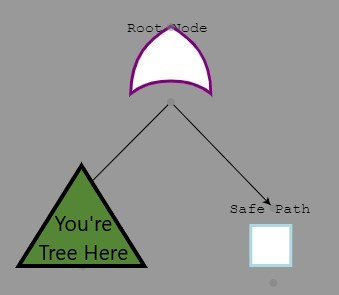
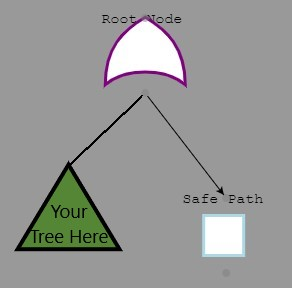
event handler and fix typo

diff --git a/frontend2/src/app/data-visualization/data-visualization.component.ts b/frontend2/src/app/data-visualization/data-visualization.component.ts
@@ -7,21 +7,22 @@ import { Component, Input, OnInit, OnChanges } from '@angular/core';
   styleUrls: ['./data-visualization.component.css']
 })
 export class DataVisualizationComponent implements OnInit, OnChanges {
-  @Input() data:any;
-  public ourData:any;
+  @Input() data: any;
+  public ourData: any;
 
   constructor() { }
 
   ngOnInit(): void {
     console.log(this.data);
     this.ourData = JSON.parse(this.data);
-    this.ourData.attackScenarios.forEach(element => (element as string).slice(0,5));
+    // todo: only display first 2-4 places after decimal
+    // this.ourData.attackScenarios.forEach(element => (element as string).slice(0,5));
     console.log("this one " + this.ourData);
   }
 
   ngOnChanges() {
     this.ourData = JSON.parse(this.data);
-    this.ourData.attackScenarios.forEach(element => (element as string).slice(0,5));
+    // this.ourData.attackScenarios.forEach(element => (element as string).slice(0,5));
     console.log("--onchages--")
     console.log(this.ourData + " \nOURS " + this.ourData.cost)
   }

diff --git a/frontend2/src/app/app.component.html b/frontend2/src/app/app.component.html
@@ -3,7 +3,7 @@
     <h1>CySec Game</h1>
   </div>
   <div nz-col>
-    <nz-select [(ngModel)]="selectedEngine">
+    <nz-select [(ngModel)]="selectedEngine" (ngModelChange)="clickEngineSelect()">
       <nz-option-group nzLabel="Attack Tree">
         <nz-option nzValue="attackTree" nzLabel="Attack Tree"></nz-option>
       </nz-option-group>
@@ -55,7 +55,8 @@
   </div>
   <div nz-col nzSpan="4">
     <attack-tree-output [data]="ourData" *ngIf="selectedEngine==='attackTree' && resultsToShow"></attack-tree-output>
-    <data-visualization [data]="ourData" *ngIf="selectedEngine==='attackDefenseTree' && resultsToShow"></data-visualization>
+    <data-visualization [data]="ourData" *ngIf="selectedEngine==='attackDefenseTree' && resultsToShow">
+    </data-visualization>
     <game-theory-output [data]="ourData" *ngIf="selectedEngine==='gameTheory' && resultsToShow"></game-theory-output>
   </div>
 </div>

diff --git a/frontend2/src/app/app.component.ts b/frontend2/src/app/app.component.ts
@@ -52,6 +52,11 @@ export class AppComponent implements AfterViewInit {
     }
   }
 
+  clickEngineSelect() {
+    this.resultsToShow = false;
+    console.log(this.resultsToShow)
+  }
+
   /**
    * On initialization this component finds the diagram component and attaches a listener.
    * This listener is triggered when a different diagram node is selected; it then sets that node to selectedNode for the inspectors.
